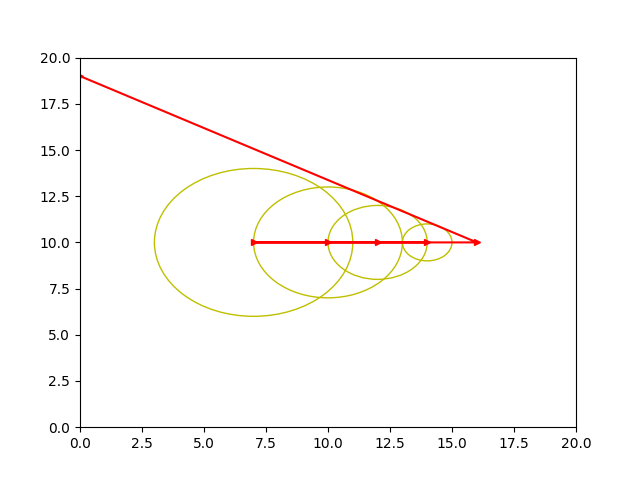
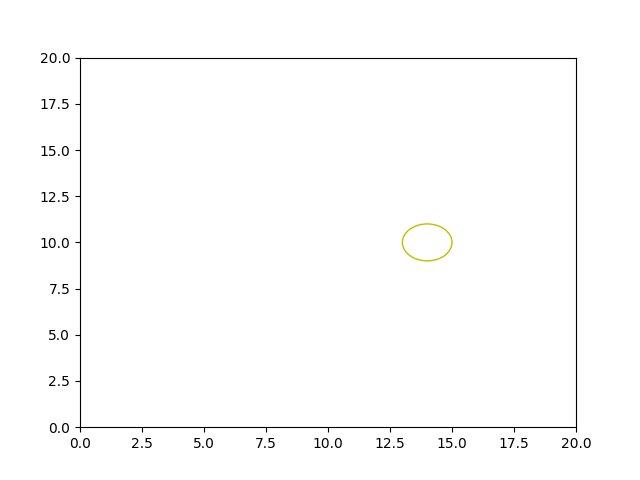
2123645

diff --git a/les_1.py b/les_1.py
@@ -1,3 +1,13 @@
-print()
-print('мы наверное молодцы')
-print()
+import numpy as np
+import matplotlib.pyplot as plt
+
+circle1 = plt.Circle((14 , 10), 1, color='y',fill=False)
+
+  
+
+fig, ax = plt.subplots() 
+ax.set_xlim((0, 20))
+ax.set_ylim((0, 20))
+ax.add_artist(circle1)
+
+fig.savefig('plotcircles12.png')
